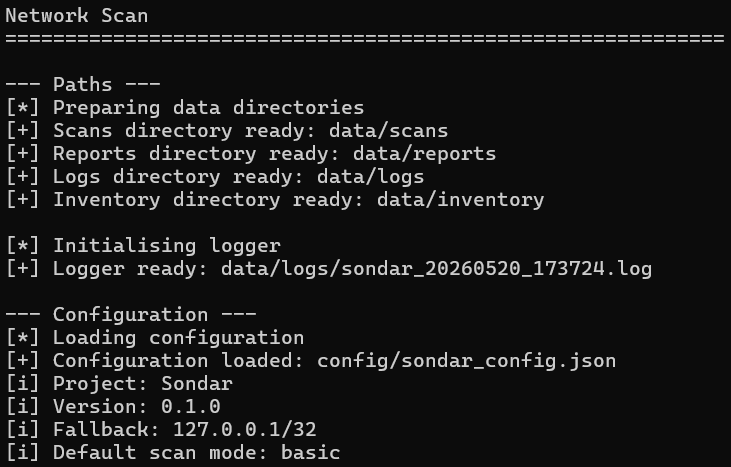
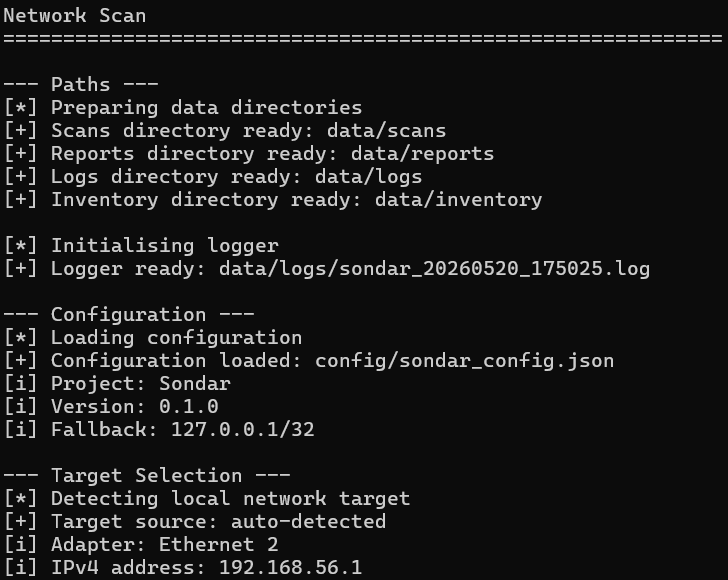
details polish

diff --git a/src/core/sondar_reporter.py b/src/core/sondar_reporter.py
@@ -39,6 +39,14 @@ def format_port_comparison_state(value: bool) -> str:
     return "enabled" if value else "skipped"
 
 
+def format_hostnames(hostnames: list[str]) -> str:
+    """Return a readable hostnames value."""
+    if not hostnames:
+        return "none"
+
+    return ", ".join(hostnames)
+
+
 # ------------------------------------------------------------
 # REPORT SECTIONS
 # ------------------------------------------------------------
@@ -46,7 +54,7 @@ def format_port_comparison_state(value: bool) -> str:
 def build_report_header(project_name: str, version: str) -> list[str]:
     """Build the report title section."""
     return [
-        f"# {project_name} scan report",
+        f"# {project_name} Scan Report",
         "",
         f"Generated UTC: {datetime.now(UTC).isoformat()}",
         f"Tool version: {version}",
@@ -76,7 +84,7 @@ def build_scan_summary_section(
     port_scan_enabled = inventory_metadata.get("port_scan_enabled", True)
 
     return [
-        "## Scan summary",
+        "## Scan Summary",
         "",
         f"- Target: `{selected_target}`",
         f"- Scan mode: `{selected_scan_mode}`",
@@ -97,7 +105,7 @@ def build_scan_summary_section(
 def build_host_inventory_section(inventory: dict[str, Any]) -> list[str]:
     """Build the host inventory section."""
     lines = [
-        "## Host inventory",
+        "## Host Inventory",
         "",
     ]
 
@@ -115,13 +123,14 @@ def build_host_inventory_section(inventory: dict[str, Any]) -> list[str]:
     for host in hosts:
         ipv4_address = host.get("ipv4_address", "Unknown")
         open_ports = host.get("open_ports", [])
+        hostnames = host.get("hostnames", [])
 
         lines.extend(
             [
                 f"### {ipv4_address}",
                 "",
                 f"- Status: {host.get('status', 'unknown')}",
-                f"- Hostnames: {', '.join(host.get('hostnames', [])) or 'none'}",
+                f"- Hostnames: {format_hostnames(hostnames)}",
                 f"- Open ports: {len(open_ports)}",
                 "",
             ]
@@ -158,7 +167,7 @@ def build_host_inventory_section(inventory: dict[str, Any]) -> list[str]:
 def build_change_detection_section(change_result: dict[str, Any]) -> list[str]:
     """Build the change detection section."""
     lines = [
-        "## Change detection",
+        "## Change Detection",
         "",
     ]
 
@@ -211,25 +220,25 @@ def build_change_detection_section(change_result: dict[str, Any]) -> list[str]:
         )
 
     if changes.get("new_hosts"):
-        lines.extend(["### New hosts", ""])
+        lines.extend(["### New Hosts", ""])
         for ipv4_address in changes["new_hosts"]:
             lines.append(f"- {ipv4_address}")
         lines.append("")
 
     if changes.get("missing_hosts"):
-        lines.extend(["### Missing hosts", ""])
+        lines.extend(["### Missing Hosts", ""])
         for ipv4_address in changes["missing_hosts"]:
             lines.append(f"- {ipv4_address}")
         lines.append("")
 
     if port_comparison_enabled and changes.get("new_open_ports"):
-        lines.extend(["### New open ports", ""])
+        lines.extend(["### New Open Ports", ""])
         for item in changes["new_open_ports"]:
             lines.append(f"- {format_change_port(item)}")
         lines.append("")
 
     if port_comparison_enabled and changes.get("closed_ports"):
-        lines.extend(["### Closed ports", ""])
+        lines.extend(["### Closed Ports", ""])
         for item in changes["closed_ports"]:
             lines.append(f"- {format_change_port(item)}")
         lines.append("")